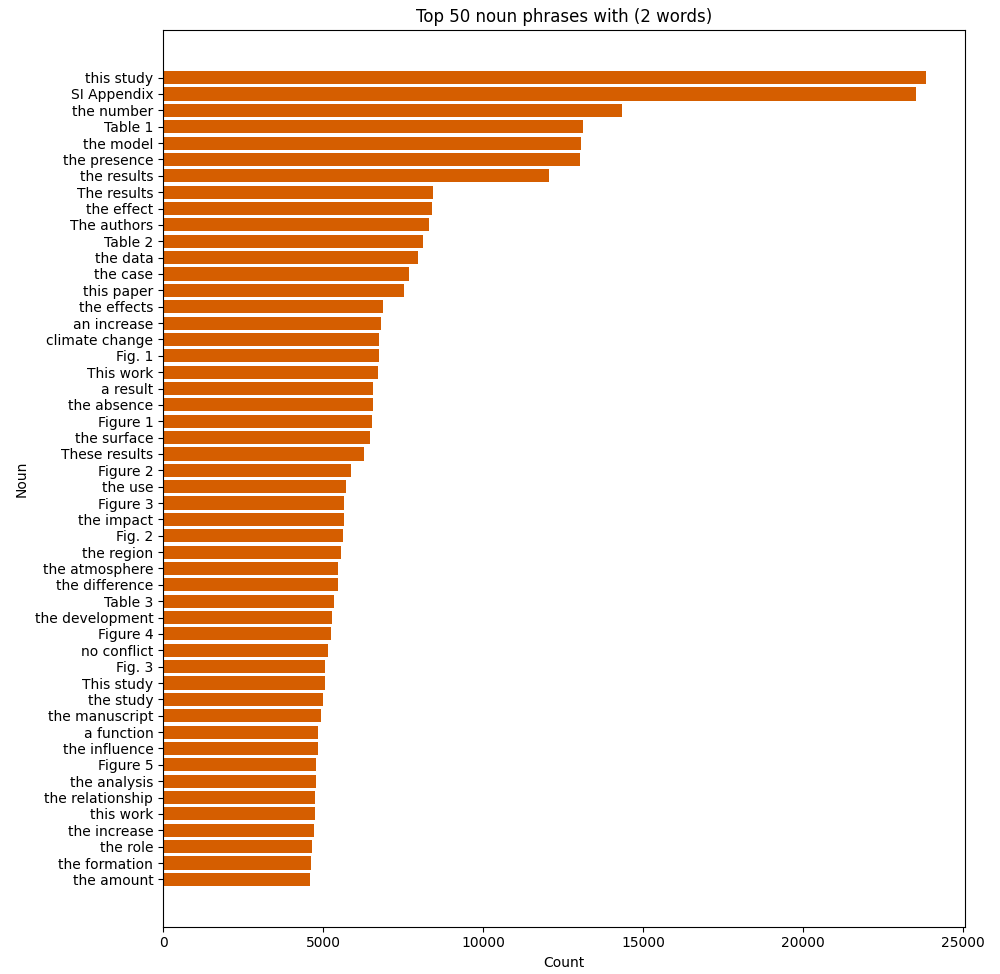
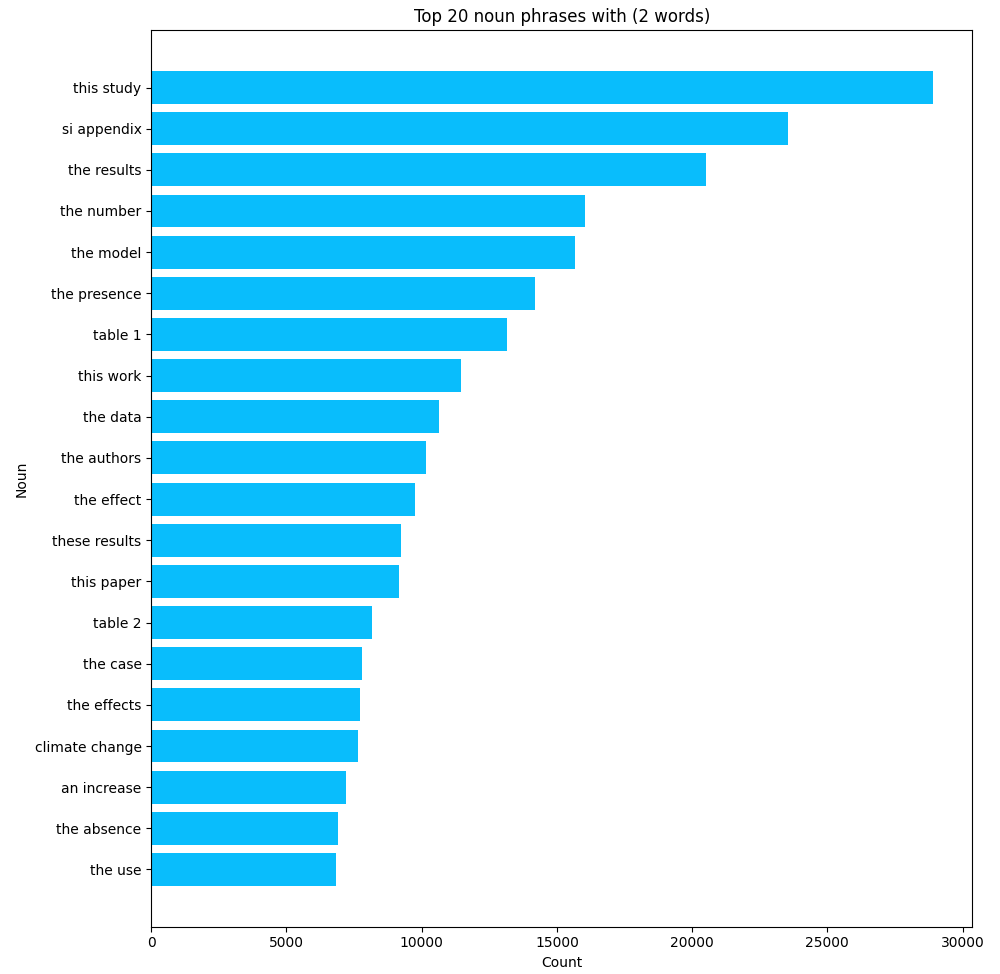
Data Cleaning and renaming

diff --git a/PDF_TXT/REPORTS/pos_noun_stats.py b/PDF_TXT/REPORTS/pos_noun_stats.py
@@ -5,10 +5,12 @@ from matplotlib import pyplot as plt
 from random import shuffle
 import numpy as np
 
-file = "full_poss.pickle"
+file = "10ksample_pos.pickle"
 df_pos = pd.read_pickle(file)
+N = 20
 
-colors = ['#E69F00', '#56B4E9', '#009E73', '#F0E442', '#0072B2', '#D55E00', '#CC79A7']
+# colors = ['#E69F00', '#56B4E9', '#009E73', '#F0E442', '#0072B2', '#D55E00', '#CC79A7']
+colors = ["#09bdfc", "#90ee90", "#ffd700", "#daa520"]
 
 # Explode the 'Nouns' column to have one row per noun
 exploded_df = df_pos.explode('Nouns')
@@ -37,9 +39,9 @@ print(overall_noun_counts_df)
 
 #### PLOT HERE
 # Plot the top N nouns by count
-top_n = 50  # Change this value to plot a different number of top nouns
+top_n = N  # Change this value to plot a different number of top nouns
 plt.figure(figsize=(10, 12))
-plt.barh(overall_noun_counts_df['Noun'][:top_n], overall_noun_counts_df['Count'][:top_n], color='#0072B2')
+plt.barh(overall_noun_counts_df['Noun'][:top_n], overall_noun_counts_df['Count'][:top_n], color=colors[0])
 # plt.xticks(rotation=45, ha='right')
 plt.gca().invert_yaxis()  # invert y-axis
 plt.xlabel('Count')
@@ -63,7 +65,7 @@ print(grouped_noun_counts)
 #### PLOT HERE
 # Plot the noun counts by the number of words
 plt.figure(figsize=(10, 6))
-plt.bar(grouped_noun_counts['NumWords'], grouped_noun_counts['Count'])
+plt.bar(grouped_noun_counts['NumWords'], grouped_noun_counts['Count'], color=colors[3])
 plt.xlabel('Number of Words in Noun')
 plt.ylabel('Total Count')
 plt.title('Noun Counts Grouped by Number of Words')
@@ -81,28 +83,28 @@ print(overall_noun_counts_df)
 
 #### PLOT HERE
 
-top_n_per_wordcount = 50
+top_n_per_wordcount = N
 unique_word_counts = overall_noun_counts_df['NumWords'].unique()
 
 for word_count in unique_word_counts:
     if word_count > 12:
         continue
     top_n_words = overall_noun_counts_df[overall_noun_counts_df['NumWords'] == word_count][:top_n_per_wordcount]
-    # shuffle(colors)
-    # plt.figure(figsize=(10, 12))
-    # plt.barh(top_n_words['Noun'], top_n_words['Count'], color=colors[1])
-    # plt.title(f'Top {top_n_per_wordcount} noun phrases with ({word_count} words)')
-    # plt.gca().invert_yaxis()  # invert y-axis
-    # plt.xlabel('Count')
-    # plt.ylabel('Noun')
-    # # plt.xticks(rotation=45, ha='right')
-    # plt.tight_layout()
-    # plt.show()
+    shuffle(colors)
+    plt.figure(figsize=(10, 12))
+    plt.barh(top_n_words['Noun'], top_n_words['Count'], color=colors[1])
+    plt.title(f'Top {top_n_per_wordcount} noun phrases with ({word_count} words)')
+    plt.gca().invert_yaxis()  # invert y-axis
+    plt.xlabel('Count')
+    plt.ylabel('Noun')
+    # plt.xticks(rotation=45, ha='right')
+    plt.tight_layout()
+    plt.show()
 
-    print(f"Top {top_n_per_wordcount} noun phrases with ({word_count} words):")
-    for index, row in top_n_words.iterrows():
-        print(f"{row['Noun']}\t{row['Count']:,}")
-    print()
+    # print(f"Top {top_n_per_wordcount} noun phrases with ({word_count} words):")
+    # for index, row in top_n_words.iterrows():
+    #     print(f"{row['Noun']}\t{row['Count']:,}")
+    # print()
 
 
 

diff --git a/PDF_TXT/REPORTS/pos_verb_stats.py b/PDF_TXT/REPORTS/pos_verb_stats.py
@@ -2,9 +2,14 @@
 
 import pandas as pd
 from matplotlib import pyplot as plt
+from random import shuffle
 
-file = "full_poss.pickle"
+file = "10ksample_pos.pickle"
 df_pos = pd.read_pickle(file)
+
+colors = ["#09bdfc", "#90ee90", "#ffd700", "#daa520"]
+shuffle(colors)
+N = 20
 
 # Explode the 'Verbs' column to have one row per verb
 exploded_df = df_pos.explode('Verbs')
@@ -27,9 +32,9 @@ print(overall_verb_counts_df)
 
 #### PLOT HERE
 # Plot the top N verbs by count
-top_n = 20  # Change this value to plot a different number of top verbs
+top_n = N  # Change this value to plot a different number of top verbs
 plt.figure(figsize=(10, 6))
-plt.bar(overall_verb_counts_df['Verb'][:top_n], overall_verb_counts_df['Count'][:top_n])
+plt.bar(overall_verb_counts_df['Verb'][:top_n], overall_verb_counts_df['Count'][:top_n], color=colors[0])
 plt.xticks(rotation=45, ha='right')
 plt.xlabel('Verb')
 plt.ylabel('Count')
@@ -53,7 +58,7 @@ print(grouped_verb_counts)
 #### PLOT HERE
 # Plot the verb counts by the number of words
 plt.figure(figsize=(10, 6))
-plt.bar(grouped_verb_counts['NumWords'], grouped_verb_counts['Count'])
+plt.bar(grouped_verb_counts['NumWords'], grouped_verb_counts['Count'], color=colors[2])
 plt.xlabel('Number of Words in Verb')
 plt.ylabel('Total Count')
 plt.title('Verb Counts Grouped by Number of Words')
@@ -70,24 +75,25 @@ print(overall_verb_counts_df)
 
 #### PLOT HERE
 
-top_n_per_wordcount = 30
+top_n_per_wordcount = N
 unique_word_counts = overall_verb_counts_df['NumWords'].unique()
 
 for word_count in unique_word_counts:
+    shuffle(colors)
     if word_count > 12:
         continue
     top_n_verbs = overall_verb_counts_df[overall_verb_counts_df['NumWords'] == word_count][:top_n_per_wordcount]
     
-    print(f"Top {top_n_per_wordcount} noun phrases with ({word_count} words):")
-    for index, row in top_n_verbs.iterrows():
-        print(f"{row['Verb']} \t {row['Count']} ")
-    print()
+    # print(f"Top {top_n_per_wordcount} noun phrases with ({word_count} words):")
+    # for index, row in top_n_verbs.iterrows():
+    #     print(f"{row['Verb']} \t {row['Count']} ")
+    # print()
 
-    # plt.figure(figsize=(10, 6))
-    # plt.bar(top_n_verbs['Verb'], top_n_verbs['Count'])
-    # plt.title(f'Top {top_n_per_wordcount} Verbs ({word_count} words)')
-    # plt.xlabel('Verb')
-    # plt.ylabel('Count')
-    # plt.xticks(rotation=45, ha='right')
-    # plt.tight_layout()
-    # plt.show()
+    plt.figure(figsize=(10, 6))
+    plt.bar(top_n_verbs['Verb'], top_n_verbs['Count'], color=colors[1])
+    plt.title(f'Top {top_n_per_wordcount} Verbs ({word_count} words)')
+    plt.xlabel('Verb')
+    plt.ylabel('Count')
+    plt.xticks(rotation=45, ha='right')
+    plt.tight_layout()
+    plt.show()

diff --git a/PDF_TXT/REPORTS/ner_top_entity.py b/PDF_TXT/REPORTS/ner_top_entity.py
@@ -1,7 +1,23 @@
+"""
+This script processes and visualizes Named Entity Recognition (NER) data from a pickled DataFrame. It performs the following tasks:
+
+1. **Load Data**: Reads a pickled NER DataFrame (`file`).
+2. **Entity-Tag Counts**: Groups the data by 'Entity' and 'Tag' to count occurrences, saving the result to a pickle file.
+3. **Top Entity-Tag Combinations**: Visualizes the top N entity-tag combinations as a bar chart.
+4. **Entity Counts**: Counts occurrences of each entity and saves the result.
+5. **Top Entities**: Visualizes the top N entities as a bar chart.
+
+Dependencies: `pandas` and `matplotlib`.
+
+Make sure the file path is correct, and the script will generate and save output pickle files.
+"""
+
+
 import pandas as pd
 from matplotlib import pyplot as plt
+from random import shuffle
 
-
+colors = ["#09bdfc", "#90ee90", "#ffd700", "#daa520"]
 file = "10ksample_ner.pickle"
 df_ner = pd.read_pickle(file)
 
@@ -11,15 +27,16 @@ entity_tag_counts = df_ner.groupby(['Entity', 'Tag']).size().reset_index(name='C
 print(entity_tag_counts)
 entity_tag_counts.to_pickle("{}_entity_tag_counts.pickle".format(file.split("_")[0]))
 
-top_n = 50
+top_n = 20
 
 # Get the top N entity-tag combinations and their counts
+shuffle(colors)
 top_entity_tag_combinations = entity_tag_counts.nlargest(top_n, 'Count')
 top_entity_tag_combinations['Entity-Tag'] = top_entity_tag_combinations['Entity'] + ' - ' + top_entity_tag_combinations['Tag']
 print(top_entity_tag_combinations.keys())
 # Plot the bar chart
 # plt.figure(figsize=(12, 8))
-top_entity_tag_combinations.plot(kind='bar', x='Entity-Tag', y='Count', color='skyblue')
+top_entity_tag_combinations.plot(kind='bar', x='Entity-Tag', y='Count', color=colors[1])
 plt.title('Top {} Entity-Tag Combinations'.format(top_n))
 plt.xlabel('Entity-Tag')
 plt.ylabel('Count')
@@ -33,14 +50,15 @@ print(entity_counts)
 
 # Number of top entities to display
 
-top_n = 50
+top_n = 20
 
 # Get the top N entities and their counts
+shuffle(colors)
 top_entities = entity_counts.head(top_n)
 
 # Plot the bar chart
 plt.figure(figsize=(10, 6))
-top_entities.plot(kind='bar', color='skyblue')
+top_entities.plot(kind='bar', color=colors[2])
 plt.title('Top {} Entities'.format(top_n))
 plt.xlabel('Entity')
 plt.ylabel('Count')

diff --git a/PDF_TXT/REPORTS/10ksample_report.md b/PDF_TXT/REPORTS/10ksample_report.md
@@ -4,9 +4,6 @@
 - Tagged based on [pos_statistics.py](./pos_statistics.py)
 - Statistics done with: [pos_noun_stats.py](./pos_noun_stats.py), [pos_verb_stats.py](./pos_verb_stats.py)
 
-
-
-
 ## NER reports
 - Tagged based on [ner_statistics.py](./ner_statistics.py)
 - Statistics done with: [ner_top_entity.py](./ner_top_entity.py)
@@ -34,4 +31,12 @@ Total number of unique entities:              313315
 Total number of triples:                      5529110
 Total number of unique triples:               5333279
 ```
+
+## Visualizations
+
+## NER counts
+
+### [ner_top_entity](PDF_TXT/REPORTS/ner_top_entity.py)
+
+![](IMAGES/10ksample_T20ET.png)
 
